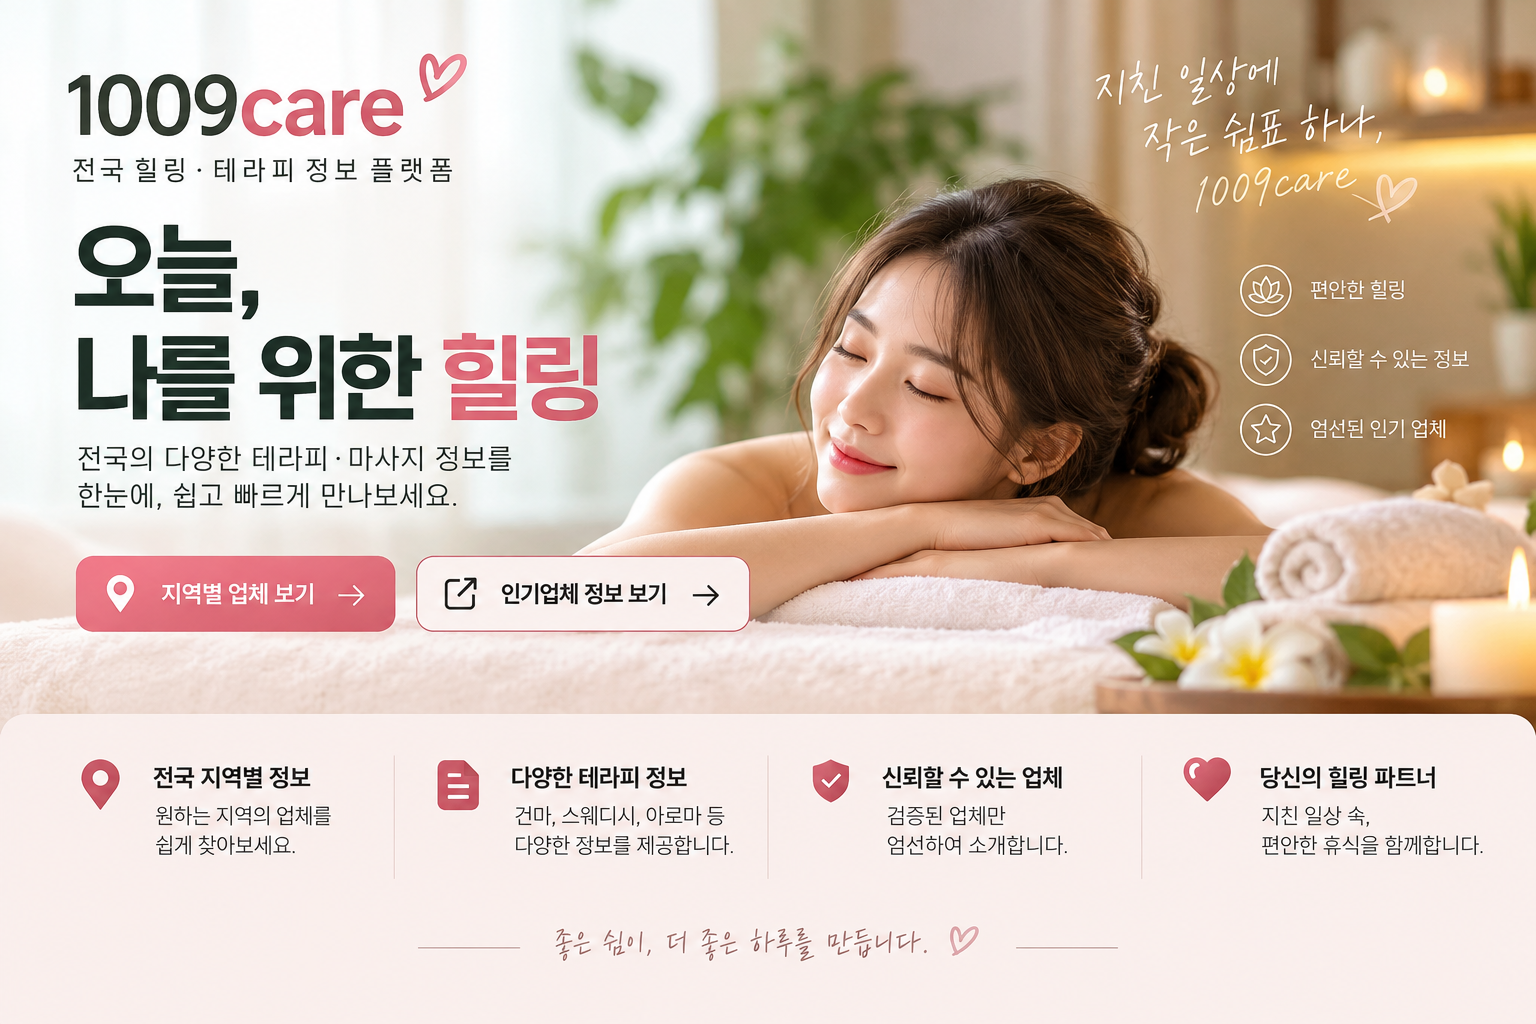
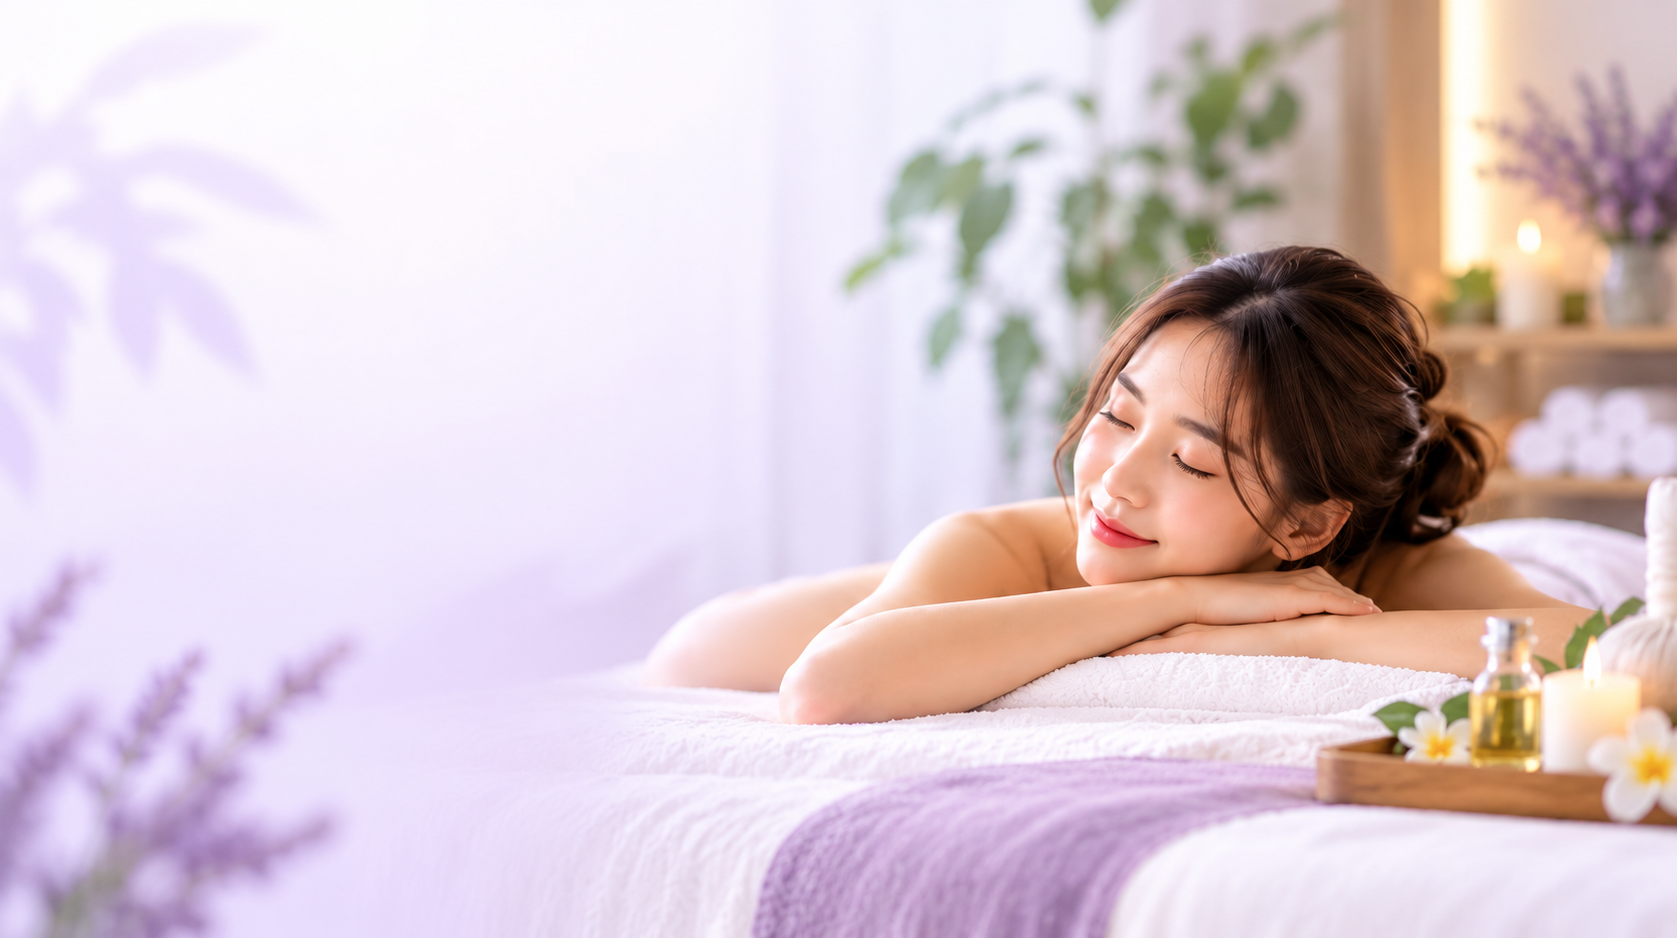
Redesign 1009care homepage hero

diff --git a/style.css b/style.css
@@ -62,31 +62,30 @@ a {
 /* 메인 배너 */
 
 .hero {
-  min-height: 620px;
-  padding: 100px 20px;
+  min-height: 650px;
+  padding: 80px 20px;
   display: flex;
   align-items: center;
   background:
-    radial-gradient(
-      circle at 80% 25%,
-      rgba(255, 190, 229, 0.75),
-      transparent 32%
-    ),
-    radial-gradient(
-      circle at 15% 80%,
-      rgba(190, 175, 255, 0.75),
-      transparent 35%
-    ),
     linear-gradient(
-      135deg,
-      #fff8ff,
-      #eee8ff
-    );
+      90deg,
+      rgba(255,255,255,0.98) 0%,
+      rgba(255,248,253,0.96) 47%,
+      rgba(255,255,255,0.15) 72%
+    ),
+    url("/assets/images/region-shop/327.png") right center / 58% auto no-repeat,
+    #fff8fb;
 }
 
 .hero-content {
   width: min(1100px, 100%);
   margin: 0 auto;
+  position: relative;
+  z-index: 2;
+}
+
+.hero-content > * {
+  max-width: 540px;
 }
 
 .hero-label,
@@ -251,10 +250,22 @@ a {
   .menu a {
     font-size: 13px;
   }
-
   .hero {
-    min-height: 560px;
-    padding: 70px 20px;
+    min-height: auto;
+    padding: 70px 20px 320px;
+    background:
+      linear-gradient(
+        180deg,
+        rgba(255,255,255,0.98) 0%,
+        rgba(255,248,253,0.96) 52%,
+        rgba(255,255,255,0.10) 70%
+      ),
+      url("/assets/images/region-shop/327.png") center bottom / 100% auto no-repeat,
+      #fff8fb;
+  }
+
+  .hero-content > * {
+    max-width: 100%;
   }
 
   .hero h1 {

diff --git a/index.html b/index.html
@@ -80,10 +80,7 @@
 
     </section>
 <section class="region-shop-card" aria-label="1009care 지역 이용 정보 안내">
-  <div class="region-shop-card-inner">
-    <div class="region-shop-card-image">
-      <img src="/assets/images/region-shop/327.png" alt="1009care 지역 안내 대표 이미지" loading="eager">
-    </div>
+  <div class="region-shop-card-inner" style="grid-template-columns:1fr;">
     <div class="region-shop-card-copy">
       
       <p>1009care는 서울·경기·인천 주요 지역을 시·구·동 단위로 정리해 원하는 지역의 정보를 빠르게 찾아볼 수 있도록 안내합니다</p>
